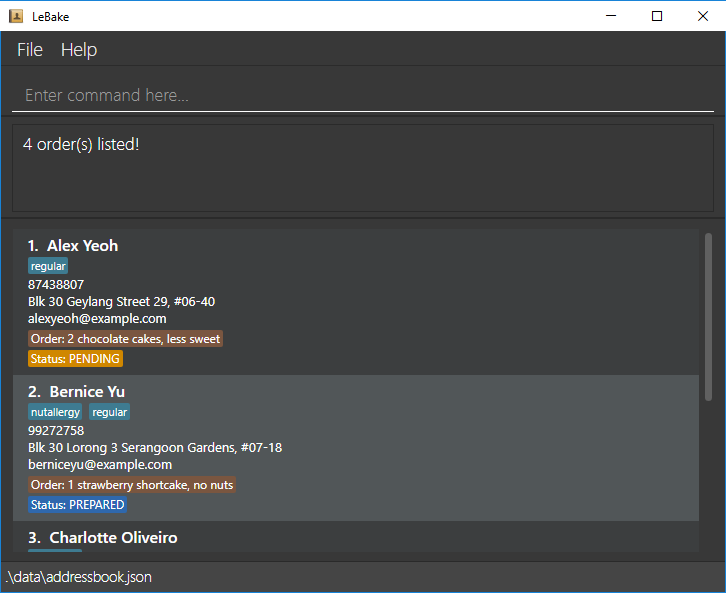
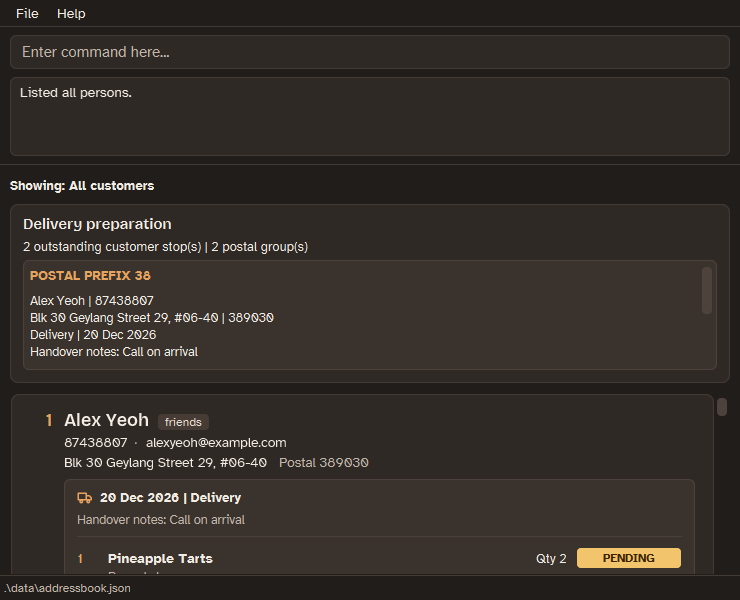
Update the UG and DG for the brown card
Describe the new card layout in the UG, and use the card's shorter
"Qty needed" wording where the guides quote it. Also replace the UG's
screenshot, which still showed the v1.3 mockup.

diff --git a/docs/UserGuide.md b/docs/UserGuide.md
@@ -400,7 +400,7 @@ An additional entry without a quantity raises the item count to three, leaves th
 and is reported as one item needing a quantity. Only customers in the current results contribute;
 customer fields such as `n/` and `t/` therefore also restrict the summary.
 
-Matching items on customer cards have a highlight border while retaining their
+Matching items on customer cards are shown in a yellow box while retaining their
 status colours. This applies to product/status searches and `track`. All other items remain visible,
 and item numbers remain unchanged. Customer-only searches and `list` remove the highlighting.
 
@@ -460,9 +460,9 @@ Examples:
 
 For Alice's second item, Cake, the success message could be:
 `Edited item 2 for Alice: Cake (quantity: 3, PREPARED)`.
-If its quantity is still missing, the message uses the same wording as the card:
+If its quantity is still missing, the message says so:
 `Edited item 2 for Alice: Cake (quantity needed, PREPARED)`.
-The card continues to display `quantity needed` for that item.
+The card continues to display `Qty needed` for that item.
 
 | Situation | Message |
 |-----------|---------|
@@ -492,15 +492,17 @@ Format: `track [s/STATUS]`
 
 Feedback distinguishes customers from matching item entries. For example, one customer with two pending items and another with one pending item produces `2 customer(s) with 3 matching item(s) for PENDING listed!`. Each customer counts once; repeated product entries count separately. Quantities are not added to this count, and an item with a missing quantity still counts as one item. With no matches, `track s/pending` reports `0 customer(s) with 0 matching item(s) for PENDING listed!`.
 
-A customer's preorder appears in a dark panel at the bottom of their card. Its first line shows when and how the preorder will be handed over, for example `20 Dec 2026 | Delivery`. A date that is not recorded yet shows as `Not scheduled`, and a method as `Method not set`. Any handover notes appear on the next line, for example `Handover notes: Call on arrival`. Below them, each item has its own row with its number and name, its quantity and its status, for example `1. Pineapple Tarts`, `Qty 2` and `PENDING`. A special request appears under the item, for example `Remark: Less sugar`, and a preorder with no items shows `No items yet`. The status badge's colour shows the status:
+Each customer card shows the customer's number on the left, then their name and tags, their phone number and email on one line, and their address with its postal code, for example `Postal 389030`. A customer without a postal code shows `Postal code needed` with a warning icon, and a customer without a preorder shows `No preorder`.
+
+A customer's preorder appears in a panel at the bottom of their card. Its first line shows when and how the preorder will be handed over, for example `20 Dec 2026 | Delivery`. A date that is not recorded yet shows as `Not scheduled`, and a method as `Method not set`. Any handover notes appear on the next line, for example `Handover notes: Call on arrival`. Below them, each item has its own row with its number, name, quantity and status, for example `1`, `Pineapple Tarts`, `Qty 2` and `PENDING`. A special request appears under the item, for example `Remark: Less sugar`, and a preorder with no items shows `No items yet`. The status badge's colour shows the status:
 
 Status | Meaning | Badge colour
 -------|---------|-------------
 `PENDING` | Recorded but not ready | Amber
 `PREPARED` | Ready for collection or delivery | Blue
-`COMPLETED` | Collected or delivered | Green
+`COMPLETED` | Collected or delivered | Green outline with a tick
 
-If you used LeBake v1.3, each saved preorder appears as one item with the same details and status. v1.3 did not record quantities, so these items show `quantity needed` instead of a quantity.
+If you used LeBake v1.3, each saved preorder appears as one item with the same details and status. v1.3 did not record quantities, so these items show `Qty needed` with a warning icon instead of a quantity.
 
 ### Deleting a preorder item: `deleteitem`
 

diff --git a/docs/DeveloperGuide.md b/docs/DeveloperGuide.md
@@ -297,7 +297,7 @@ recompute the snapshot, including zero results. Labels wrap inside a focusable s
 handler supports arrows, Page Up/Down and Home/End with scroll values clamped to the valid range.
 
 `PersonListPanel` also refreshes its cells when active criteria change. Each `PersonCard` receives the
-current criteria and reuses the item matcher to add the `matching-item` border style. It keeps
+current criteria and reuses the item matcher to add the `matching-item` style, a yellow box. It keeps
 all items, original numbering and status styles. Status-only criteria (including `track`) also highlight
 matching items; criteria without item conditions produce no highlights. The customer list uses native
 JavaFX keyboard navigation and selects its first entry when focused without an existing selection.
@@ -400,7 +400,7 @@ an `"items"` field loads as a preorder with no items.
 LeBake v1.3 saved a single `"preorder"` object with free-text `"details"` and one `"status"`.
 `JsonAdaptedPerson` still reads that field through `JsonAdaptedLegacyPreorder`, which turns it into a preorder with
 one item named after the old details, with the old status. v1.3 did not record a quantity, and guessing one from the
-details could be wrong, so the item has no quantity and its card shows `quantity needed`. The converted preorder has
+details could be wrong, so the item has no quantity and its card shows `Qty needed`. The converted preorder has
 no date, method or handover notes, as v1.3 had none. The old field is never written back, so the next save stores
 the customer in the current format.
 
@@ -469,7 +469,7 @@ same immutable preorder/person replacement path, with the item list appended or 
 <puml src="diagrams/EditItemSequenceDiagram.puml" alt="Interactions for editing one preorder item" />
 
 Success messages use `Added/Edited item NUMBER for CUSTOMER: NAME (quantity: QUANTITY, STATUS)`.
-For migrated items without a quantity, the quantity portion is `quantity needed`, matching the customer card.
+For migrated items without a quantity, the quantity portion is `quantity needed`; the card shows `Qty needed`.
 Remarks remain visible on the customer card. A missing `i/` produces usage instructions; a supplied but invalid
 item index produces `Item index must be a positive integer.`
 `deleteorder` still removes the whole preorder; its item-level replacement is a separate feature.
@@ -1050,7 +1050,7 @@ Record their contact details and tags before starting. Replace `INDEX` in the ex
 1. Close and reopen the application.<br>
    Expected: Both items retain their quantities and statuses; the second item's remark remains absent.
 1. With a v1.3 migrated item lacking a quantity, edit only its status.<br>
-   Expected: Its success message and card both show `quantity needed`.
+   Expected: Its success message shows `quantity needed`, and its card shows `Qty needed`.
    Supply `q/1` to correct it; subsequent success messages and the card show the recorded quantity.
 
 ### Deleting a preorder item
@@ -1114,7 +1114,7 @@ These steps edit the data file, so use a copy of LeBake in an empty folder. Laun
       `"preorder" : { "details" : "2 chocolate cakes", "status" : "PENDING" }`.
 
    1. Test case: Launch LeBake.<br>
-      Expected: The first customer's card shows one item, `2 chocolate cakes`, with `quantity needed` and the
+      Expected: The first customer's card shows one item, `2 chocolate cakes`, with `Qty needed` and the
       status `PENDING`. Their other details are unchanged.
 
    1. Test case: Run `list`, close LeBake, then open `data/addressbook.json` again.<br>
